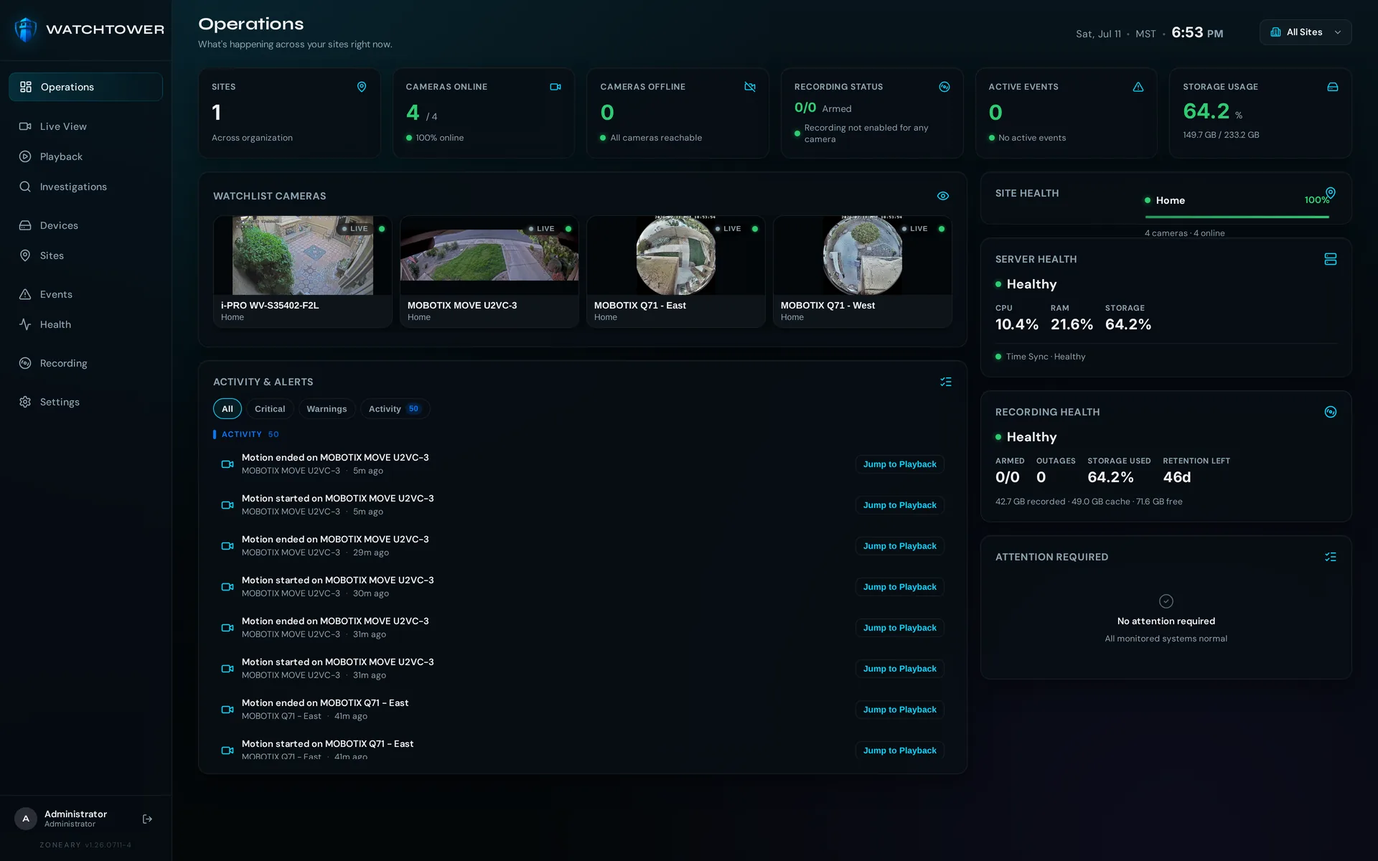
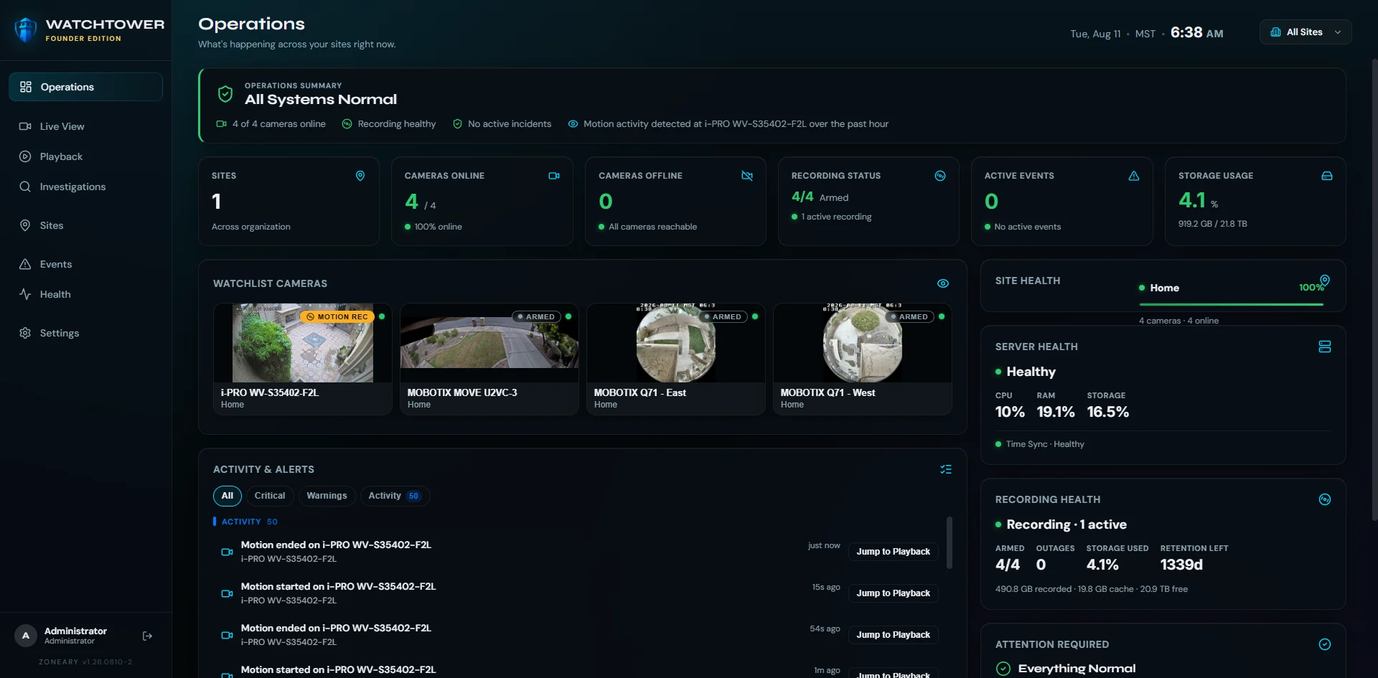
Refresh Watchtower screenshots and add the Desktop Client section
Second-generation captures (Aug 11) replace the first-gen set, plus a new
Watchtower Desktop section. Retires a pile of dead weight along the way.

Screenshots
- Replaced all six first-gen captures. New set is 1920x945 rather than
  1920x1200, so 15 baked-in width/height attributes were corrected; left as
  they were, every one would have caused a layout jump on load.
- Investigations finally has a screenshot: the real workspace, showing filtered
  clip search feeding an empty case with an export action.
- Browser-native fisheye dewarping now has evidence: the same MOBOTIX Q71 raw
  and dewarped, as a before/after pair. Both use one identical crop box derived
  by diffing the captures (their dimmed backdrop is identical, so only the
  popout differs) - identical framing is what makes the comparison fair.
- Health now carries two shots that answer two different questions: is the
  security system healthy (per-site/per-camera), and is the machine it runs on
  healthy (CPU, drives, services).
- Gallery 6 -> 9 tiles.

Desktop client
- New #desktop section between Cameras and Local-first architecture: three
  platform cards (Windows AVAILABLE, macOS AVAILABLE, Linux IN DEVELOPMENT)
  with status carried by pill treatment, not just words - dashed amber reuses
  the same grammar as the PLANNED tags elsewhere on the page.
- Sign-in and Live View captures keep their native window chrome, which is what
  actually evidences "native application".
[…]

diff --git a/site/watchtower/index.html b/site/watchtower/index.html
@@ -95,7 +95,7 @@
             <span class="aw-title"><img src="../assets/watchtower/watchtower_logo.png" alt="" /> watchtower · live view</span>
             <span class="aw-live"><i></i>LIVE</span>
           </div>
-          <div class="aw-media"><img src="../assets/watchtower/live-view.webp" alt="Watchtower Live View showing a wall of live camera feeds" width="1920" height="1200" /></div>
+          <div class="aw-media"><img src="../assets/watchtower/live-view.webp" alt="Watchtower Live View — a four-pane wall including two fisheye cameras" width="1920" height="945" /></div>
         </figure>
       </div>
     </div>
@@ -113,6 +113,7 @@
     <a href="#operations">Operations</a>
     <a href="#health">Health</a>
     <a href="#cameras">Cameras</a>
+    <a href="#desktop">Desktop</a>
     <a href="#licensing">Licensing</a>
     <a href="#faq">FAQ</a>
   </div>
@@ -159,7 +160,7 @@
         <div class="beam-accent"></div>
         <figure class="app-window">
           <div class="aw-bar"><span class="aw-dots"><i></i><i></i><i></i></span><span class="aw-title">watchtower · live view</span><span class="aw-live"><i></i>LIVE</span></div>
-          <div class="aw-media"><img src="../assets/watchtower/live-view.webp" alt="Watchtower Live View — a wall of live camera feeds" width="1920" height="1200" loading="lazy" /></div>
+          <div class="aw-media"><img src="../assets/watchtower/live-view.webp" alt="Watchtower Live View — a four-pane wall including two fisheye cameras" width="1920" height="945" loading="lazy" /></div>
         </figure>
       </div>
     </div>
@@ -180,6 +181,19 @@
         <p class="wt-plan"><span class="lab">Planned</span>Published browser, GPU and camera-model support matrix</p>
       </div>
     </div>
+
+    <!-- the same fisheye camera, raw then dewarped, both in the browser -->
+    <div class="wt-duo reveal">
+      <figure class="wt-duo-item">
+        <span class="wt-duo-tag">Raw fisheye</span>
+        <img src="../assets/watchtower/fisheye-raw.webp" alt="A MOBOTIX Q71 fisheye camera popped out in Watchtower, showing the raw circular fisheye image" width="1281" height="782" loading="lazy" />
+      </figure>
+      <figure class="wt-duo-item">
+        <span class="wt-duo-tag on">Dewarped in the browser</span>
+        <img src="../assets/watchtower/fisheye-dewarped.webp" alt="The same fisheye camera dewarped to a rectilinear view inside Watchtower, with no desktop plugin" width="1281" height="782" loading="lazy" />
+      </figure>
+    </div>
+    <p class="wt-cap">The same camera, before and after dewarping — both running in the browser.</p>
   </div>
 </section>
 
@@ -201,7 +215,7 @@
         <div class="beam-accent"></div>
         <figure class="app-window">
           <div class="aw-bar"><span class="aw-dots"><i></i><i></i><i></i></span><span class="aw-title">watchtower · recording</span></div>
-          <div class="aw-media"><img src="../assets/watchtower/recording.webp" alt="Watchtower Recording view with storage composition and retention protection" width="1920" height="1200" loading="lazy" /></div>
+          <div class="aw-media"><img src="../assets/watchtower/recording.webp" alt="Watchtower Recording view with storage composition and retention protection" width="1920" height="945" loading="lazy" /></div>
         </figure>
       </div>
     </div>
@@ -233,7 +247,7 @@
         <div class="beam-accent"></div>
         <figure class="app-window">
           <div class="aw-bar"><span class="aw-dots"><i></i><i></i><i></i></span><span class="aw-title">watchtower · playback</span></div>
-          <div class="aw-media"><img src="../assets/watchtower/playback.webp" alt="Watchtower Playback with recording timeline and investigation tools" width="1920" height="1200" loading="lazy" /></div>
+          <div class="aw-media"><img src="../assets/watchtower/playback.webp" alt="Watchtower Playback with recording timeline and investigation tools" width="1920" height="945" loading="lazy" /></div>
         </figure>
       </div>
     </div>
@@ -268,6 +282,14 @@
         <div class="wt-tags"><span>Export vault</span><span>Clip tools</span></div>
       </div>
     </div>
+    <div class="wt-subshot reveal">
+      <figure class="app-window">
+        <div class="aw-bar"><span class="aw-dots"><i></i><i></i><i></i></span><span class="aw-title">watchtower · investigations</span></div>
+        <div class="aw-media"><img src="../assets/watchtower/investigations.webp" alt="Watchtower Investigations — filtered clip search results on the left, an empty case ready to gather them on the right, and an export action" width="1920" height="945" loading="lazy" /></div>
+      </figure>
+      <p class="wt-cap">Search the recordings, gather what matters into a case, and export it as one record.</p>
+    </div>
+
     <p class="wt-punch" style="font-size:clamp(18px,2vw,24px)">Bookmark, tag and export — the difference between <b>having footage</b> and <b>having an answer</b>.</p>
   </div>
 </section>
@@ -290,7 +312,7 @@
         <div class="beam-accent"></div>
         <figure class="app-window">
           <div class="aw-bar"><span class="aw-dots"><i></i><i></i><i></i></span><span class="aw-title"><img src="../assets/watchtower/watchtower_logo.png" alt="" /> watchtower · operations</span><span class="aw-live"><i></i>LIVE</span></div>
-          <div class="aw-media"><img src="../assets/watchtower/operations.webp" alt="Watchtower Operations dashboard showing sites, cameras online, recording status and a live activity feed" width="1920" height="1200" loading="lazy" /></div>
+          <div class="aw-media"><img src="../assets/watchtower/operations.webp" alt="Watchtower Operations dashboard showing sites, cameras online, recording status and a live activity feed" width="1920" height="945" loading="lazy" /></div>
         </figure>
       </div>
     </div>
@@ -299,7 +321,7 @@
     <div class="wt-subshot reveal">
       <figure class="app-window">
         <div class="aw-bar"><span class="aw-dots"><i></i><i></i><i></i></span><span class="aw-title">watchtower · sites</span><span class="aw-live"><i></i>LIVE</span></div>
-        <div class="aw-media"><img src="../assets/watchtower/sites.webp" alt="Watchtower Sites — a geographic operations map with every location's status" width="1920" height="1200" loading="lazy" /></div>
+        <div class="aw-media"><img src="../assets/watchtower/sites.webp" alt="Watchtower Sites — a geographic operations map with every location's status" width="1920" height="945" loading="lazy" /></div>
       </figure>
       <p class="wt-cap">Every site, one map — monitor every location at a glance, then drop straight into the cameras behind it.</p>
     </div>
@@ -359,9 +381,17 @@
         <div class="beam-accent"></div>
         <figure class="app-window">
           <div class="aw-bar"><span class="aw-dots"><i></i><i></i><i></i></span><span class="aw-title">watchtower · health</span><span class="aw-live"><i></i>LIVE</span></div>
-          <div class="aw-media"><img src="../assets/watchtower/health.webp" alt="Watchtower Health view — server, storage and recording health with active warnings" width="1920" height="1200" loading="lazy" /></div>
+          <div class="aw-media"><img src="../assets/watchtower/health.webp" alt="Watchtower Health — per-site and per-camera health scores with recording status and failures" width="1920" height="945" loading="lazy" /></div>
         </figure>
       </div>
+    </div>
+
+    <div class="wt-subshot reveal">
+      <figure class="app-window">
+        <div class="aw-bar"><span class="aw-dots"><i></i><i></i><i></i></span><span class="aw-title">watchtower · appliance health</span></div>
+        <div class="aw-media"><img src="../assets/watchtower/appliance-health.webp" alt="Watchtower Appliance Health — CPU, memory, system drive, recording storage, uptime, time synchronisation and per-service status for the machine Watchtower runs on" width="1920" height="945" loading="lazy" /></div>
+      </figure>
+      <p class="wt-cap">Two different questions, answered separately: is the security system healthy, and is the machine it runs on healthy.</p>
     </div>
   </div>
 </section>
@@ -378,9 +408,8 @@
       <div class="wt-feat reveal">
         <div class="wt-ico"><svg viewBox="0 0 24 24" stroke-width="1.6"><rect x="3" y="6" width="18" height="12" rx="2"/><circle cx="12" cy="12" r="3.2"/></svg></div>
         <h3>ONVIF</h3>
-        <p>ONVIF-based setup and profile discovery: point Watchtower at a camera and its profiles and stream configuration come from the standard, rather than from a bespoke integration per brand.</p>
-        <div class="wt-tags"><span>Profile discovery</span><span>Standards-based setup</span></div>
-        <p class="wt-plan"><span class="lab">Planned</span>Automatic local-network ONVIF device scanning</p>
+        <p>ONVIF-based discovery and setup: Watchtower finds ONVIF devices on the local network and takes their profiles and stream configuration from the standard, rather than from a bespoke integration per brand.</p>
+        <div class="wt-tags"><span>Local-network discovery</span><span>Profile discovery</span><span>Standards-based setup</span></div>
       </div>
       <div class="wt-feat reveal rd1">
         <div class="wt-ico"><svg viewBox="0 0 24 24" stroke-width="1.6"><path d="M4 6h11v12H4z"/><path d="M15 10l5-3v10l-5-3z"/></svg></div>
@@ -408,6 +437,52 @@
       </div>
       <p class="wt-tested-note">Active interoperability testing runs across several manufacturers. This is the hardware on our bench today — not a formal or universal compatibility guarantee. Checking a specific model? <a href="mailto:info@zoneary.com?subject=Watchtower%20camera%20compatibility">Ask us</a>.</p>
     </div>
+  </div>
+</section>
+
+<!-- ============ DESKTOP CLIENT ============ -->
+<section class="pad" id="desktop">
+  <div class="wrap">
+    <div class="wt-head">
+      <span class="eyebrow"><i></i>Watchtower Desktop</span>
+      <h2>Your VMS. <span class="wt-warm">On your desktop.</span></h2>
+      <p>Watchtower isn't limited to a browser. The Watchtower desktop client brings the monitoring experience into a dedicated native application while connecting directly to the Watchtower system.</p>
+    </div>
+
+    <div class="wt-platforms">
+      <div class="wt-plat reveal">
+        <span class="wt-plat-mark"><svg viewBox="0 0 24 24" aria-hidden="true"><path d="M3 4.6l8-1.1v8.1H3zM12 3.4l9-1.3v9.5h-9zM3 12.5h8v8.1l-8-1.1zM12 12.5h9v9.6l-9-1.3z"/></svg></span>
+        <h3>Windows</h3>
+        <span class="wt-plat-status ok"><i></i>Available</span>
+        <p>Native Watchtower desktop client for Windows.</p>
+      </div>
+      <div class="wt-plat reveal rd1">
+        <span class="wt-plat-mark"><svg viewBox="0 0 24 24" aria-hidden="true"><path d="M16.4 12.7c0-2.3 1.9-3.4 2-3.5-1.1-1.6-2.8-1.8-3.4-1.8-1.4-.1-2.8.9-3.5.9-.7 0-1.8-.9-3-.9-1.5 0-2.9 1-3.7 2.4-1.6 2.7-.4 6.8 1.1 9 .8 1.1 1.6 2.3 2.8 2.2 1.1 0 1.6-.7 2.9-.7s1.7.7 2.9.7c1.2 0 2-1.1 2.7-2.2.9-1.2 1.2-2.5 1.3-2.5-.1 0-2.4-1-2.4-3.6z"/><path d="M14.2 5.6c.6-.8 1-1.8.9-2.9-.9 0-2 .6-2.7 1.4-.6.7-1.1 1.8-.9 2.8 1 .1 2-.5 2.7-1.3z"/></svg></span>
+        <h3>macOS</h3>
+        <span class="wt-plat-status ok"><i></i>Available</span>
+        <p>Native Watchtower desktop client for macOS.</p>
+      </div>
+      <div class="wt-plat reveal rd2">
+        <span class="wt-plat-mark"><svg viewBox="0 0 24 24" aria-hidden="true"><path d="M8 19.1c-1.2.7-2.8 1.5-3.3 2-.4.4-.2.9.4 1 1.5.2 3.4-.5 4.5-1.5z" fill="#ffb454"/><path d="M16 19.1c1.2.7 2.8 1.5 3.3 2 .4.4.2.9-.4 1-1.5.2-3.4-.5-4.5-1.5z" fill="#ffb454"/><path d="M12 2.2c-2.5 0-4.2 1.9-4.2 4.5 0 1-.2 1.8-.6 2.6-.7 1.5-2 3-2.4 4.5-.4 1.5-.1 3 .8 4.1 1 1.3 2.7 2 4.5 2.2.6.1 1.3.1 1.9.1s1.3 0 1.9-.1c1.8-.2 3.5-.9 4.5-2.2.9-1.1 1.2-2.6.8-4.1-.4-1.5-1.7-3-2.4-4.5-.4-.8-.6-1.6-.6-2.6 0-2.6-1.7-4.5-4.2-4.5z"/><circle cx="10.5" cy="6.5" r=".8" fill="#14161E"/><circle cx="13.5" cy="6.5" r=".8" fill="#14161E"/><path d="M12 7.7c.8 0 1.6.5 1.6.95 0 .4-.85.9-1.6.9s-1.6-.5-1.6-.9c0-.45.8-.95 1.6-.95z" fill="#ffb454"/></svg></span>
+        <h3>Linux</h3>
+        <span class="wt-plat-status dev"><i></i>In development</span>
+        <p>Native Linux desktop client is currently in development.</p>
+      </div>
+    </div>
+
+    <div class="wt-duo reveal">
+      <figure class="wt-duo-item">
+        <span class="wt-duo-tag">Sign in</span>
+        <img src="../assets/watchtower/desktop-signin.webp" alt="The Watchtower desktop client sign-in window running as a native application" width="1182" height="792" loading="lazy" />
+      </figure>
+      <figure class="wt-duo-item">
+        <span class="wt-duo-tag on">Live view</span>
+        <img src="../assets/watchtower/desktop-live.webp" alt="Watchtower Live View running inside the native desktop client, showing a four-pane camera wall" width="1429" height="912" loading="lazy" />
+      </figure>
+    </div>
+    <p class="wt-cap">The Watchtower desktop client, connected to a Watchtower system.</p>
+
+    <p class="wt-punch" style="font-size:clamp(18px,2vw,24px)">The desktop client is <b>another way to operate Watchtower</b>, not a requirement. Watchtower stays fully usable in the browser — including its browser-native fisheye dewarping — with no proprietary viewing plugin.</p>
   </div>
 </section>
 
@@ -488,12 +563,15 @@
       <p>Real screens from the current Watchtower build — not conceptual artwork.</p>
     </div>
     <div class="wt-gallery">
-      <figure class="wt-gal reveal"><img src="../assets/watchtower/operations.webp" alt="Watchtower Operations dashboard" width="1920" height="1200" loading="lazy" /><figcaption>Operations</figcaption></figure>
-      <figure class="wt-gal reveal rd1"><img src="../assets/watchtower/live-view.webp" alt="Watchtower Live View camera wall" width="1920" height="1200" loading="lazy" /><figcaption>Live view</figcaption></figure>
-      <figure class="wt-gal reveal rd2"><img src="../assets/watchtower/playback.webp" alt="Watchtower Playback timeline" width="1920" height="1200" loading="lazy" /><figcaption>Playback</figcaption></figure>
-      <figure class="wt-gal reveal"><img src="../assets/watchtower/recording.webp" alt="Watchtower Recording and storage composition" width="1920" height="1200" loading="lazy" /><figcaption>Recording</figcaption></figure>
-      <figure class="wt-gal reveal rd1"><img src="../assets/watchtower/health.webp" alt="Watchtower Health view" width="1920" height="1200" loading="lazy" /><figcaption>Health</figcaption></figure>
-      <figure class="wt-gal reveal rd2"><img src="../assets/watchtower/sites.webp" alt="Watchtower Sites operations map" width="1920" height="1200" loading="lazy" /><figcaption>Sites</figcaption></figure>
+      <figure class="wt-gal reveal"><img src="../assets/watchtower/operations.webp" alt="Watchtower Operations dashboard" width="1920" height="945" loading="lazy" /><figcaption>Operations</figcaption></figure>
+      <figure class="wt-gal reveal rd1"><img src="../assets/watchtower/live-view.webp" alt="Watchtower Live View camera wall" width="1920" height="945" loading="lazy" /><figcaption>Live view</figcaption></figure>
+      <figure class="wt-gal reveal rd2"><img src="../assets/watchtower/live-single.webp" alt="Watchtower Live View with a single camera at full frame" width="1920" height="945" loading="lazy" /><figcaption>Single camera</figcaption></figure>
+      <figure class="wt-gal reveal"><img src="../assets/watchtower/playback.webp" alt="Watchtower Playback timeline" width="1920" height="945" loading="lazy" /><figcaption>Playback</figcaption></figure>
+      <figure class="wt-gal reveal rd1"><img src="../assets/watchtower/investigations.webp" alt="Watchtower Investigations workspace" width="1920" height="945" loading="lazy" /><figcaption>Investigations</figcaption></figure>
+      <figure class="wt-gal reveal rd2"><img src="../assets/watchtower/recording.webp" alt="Watchtower Recording and storage composition" width="1920" height="945" loading="lazy" /><figcaption>Recording</figcaption></figure>
+      <figure class="wt-gal reveal"><img src="../assets/watchtower/health.webp" alt="Watchtower Health view" width="1920" height="945" loading="lazy" /><figcaption>Health</figcaption></figure>
+      <figure class="wt-gal reveal rd1"><img src="../assets/watchtower/appliance-health.webp" alt="Watchtower Appliance Health" width="1920" height="945" loading="lazy" /><figcaption>Appliance health</figcaption></figure>
+      <figure class="wt-gal reveal rd2"><img src="../assets/watchtower/sites.webp" alt="Watchtower Sites operations map" width="1920" height="945" loading="lazy" /><figcaption>Sites</figcaption></figure>
     </div>
   </div>
 </section>
@@ -507,7 +585,7 @@
       <p>A look at what's planned. These are directions we're building toward — not features shipping today.</p>
     </div>
     <div class="wt-roadmap">
-      <div class="wt-road reveal"><span class="tag">Planned</span><h3>Automatic camera discovery</h3><p>Local-network ONVIF scanning to find and add cameras for you, instead of adding each device by address.</p></div>
+      <div class="wt-road reveal"><span class="tag">Planned</span><h3>Detection zone refinements</h3><p>Richer per-camera motion tuning on top of the sensitivity and exclusion zones already in the build.</p></div>
       <div class="wt-road reveal rd1"><span class="tag">Planned</span><h3>Object classification</h3><p>Distinguishing people and vehicles from everything else, and advanced analytic rules on top — used to help you see, never to decide for you.</p></div>
       <div class="wt-road reveal rd2"><span class="tag">Planned</span><h3>Deeper investigations</h3><p>Richer case tooling: shared cases, richer export packaging, and a cleaner chain of custody.</p></div>
       <div class="wt-road reveal"><span class="tag">Planned</span><h3>Expanded multi-site</h3><p>Larger fleets and richer cross-site rollups through one console.</p></div>
@@ -544,7 +622,7 @@
       </details>
       <details class="wt-q">
         <summary>Which cameras work with Watchtower?</summary>
-        <div class="a"><p>Watchtower uses ONVIF-based setup and profile discovery with standards-based RTSP video ingestion, rather than a per-brand integration list. Automatic local-network camera discovery is still in development.</p><p>Hardware used during development and interoperability testing currently includes i-PRO, MOBOTIX Q71 and MOBOTIX MOVE / MOVE U2VC-series equipment. That is a test bench, not a supported-device list. Compatibility details will be published before release; until then, ask us about a specific model and we'll tell you what we know.</p></div>
+        <div class="a"><p>Watchtower uses ONVIF-based discovery and setup with standards-based RTSP video ingestion, rather than a per-brand integration list. ONVIF devices on the local network are discovered rather than added one address at a time.</p><p>Hardware used during development and interoperability testing currently includes i-PRO, MOBOTIX Q71 and MOBOTIX MOVE / MOVE U2VC-series equipment. That is a test bench, not a supported-device list. Compatibility details will be published before release; until then, ask us about a specific model and we'll tell you what we know.</p></div>
       </details>
       <details class="wt-q">
         <summary>How does Watchtower relate to PulseGrid and Sentinel?</summary>

diff --git a/site/sentinel/index.html b/site/sentinel/index.html
@@ -19,12 +19,12 @@
 <meta property="og:url" content="https://zoneary.com/sentinel/" />
 <meta property="og:title" content="Sentinel | Home Security Control by Zoneary" />
 <meta property="og:description" content="Local-first home security control, designed to reuse compatible wiring and sensors. An active development project. Part of the Zoneary ecosystem." />
-<meta property="og:image" content="https://zoneary.com/sentinel/img/dashboard_ready.png" />
+<meta property="og:image" content="https://zoneary.com/assets/sentinel/sentinel_dashboard.png" />
 <!-- Twitter -->
 <meta name="twitter:card" content="summary_large_image" />
 <meta name="twitter:title" content="Sentinel | Home Security Control by Zoneary" />
 <meta name="twitter:description" content="Local-first home security control, designed to reuse compatible wiring and sensors. In development. Part of the Zoneary ecosystem." />
-<meta name="twitter:image" content="https://zoneary.com/sentinel/img/dashboard_ready.png" />
+<meta name="twitter:image" content="https://zoneary.com/assets/sentinel/sentinel_dashboard.png" />
 <link rel="stylesheet" href="../css/fonts.css" />
 <link rel="stylesheet" href="../css/styles.css" />
 <link rel="stylesheet" href="sentinel.css" />
@@ -60,7 +60,7 @@
   <div class="wrap">
     <div class="sn-hero-grid">
       <div class="sn-hero-content">
-        <div class="sn-hero-brand"><img src="img/sentinel_lockup.png" alt="Sentinel — old wiring, new intelligence" /></div>
+        <div class="sn-hero-brand"><img src="../assets/brand/sentinel_lockup.png" alt="Sentinel — old wiring, new intelligence" /></div>
         <h1><span class="sn-steel">Old wiring.</span><br><span class="sn-warm">New intelligence.</span></h1>
         <p class="sn-hero-body">Sentinel is local-first home security control that runs in your own home. It is designed to reuse compatible sensors, wiring and panels and bring them into one dashboard you actually enjoy using — developed around a Konnected-based home installation and open home-automation principles.</p>
         <div class="sn-hero-actions">
@@ -78,10 +78,10 @@
           <figure class="app-window">
             <div class="aw-bar">
               <span class="aw-dots"><i></i><i></i><i></i></span>
-              <span class="aw-title"><img src="img/sentinel_shield.png" alt="" /> sentinel · control center</span>
+              <span class="aw-title"><img src="../assets/brand/sentinel_shield.png" alt="" /> sentinel · control center</span>
               <span class="aw-live"><i></i>LIVE</span>
             </div>
-            <div class="aw-media"><img src="img/dashboard_ready.png" alt="Sentinel control center — all zones secure, system ready" width="2650" height="1716" /></div>
+            <div class="aw-media"><img src="../assets/sentinel/sentinel_dashboard.png" alt="Sentinel control center — all zones secure, system ready" width="2650" height="1716" /></div>
           </figure>
           <div class="sn-screen-badge"><span class="sn-badge-dot"></span>System Ready</div>
         </div>
@@ -122,7 +122,7 @@
       <!-- AFTER -->
       <div class="sn-side sn-side-after">
         <span class="sn-tag sn-tag-after">After</span>
-        <div class="sn-shot"><img src="img/dashboard_ready.png" alt="The Sentinel control center, after" width="2650" height="1716" /></div>
+        <div class="sn-shot"><img src="../assets/sentinel/sentinel_dashboard.png" alt="The Sentinel control center, after" width="2650" height="1716" /></div>
         <h3>Sentinel Control Center</h3>
         <p>A full-colour dashboard on a wall tablet — named zones and sensor state at a glance. Designed to be worth leaving on permanent display.</p>
         <ul class="sn-checks good">

diff --git a/site/watchtower/watchtower.css b/site/watchtower/watchtower.css
@@ -132,6 +132,38 @@ section[id]{scroll-margin-top:114px}
 .wt-tested-note{margin-top:18px;font-size:13px;line-height:1.65;color:var(--muted)}
 .wt-tested-note a{color:var(--wt);border-bottom:1px solid rgba(0,212,255,.3)}
 
+/* two screenshots side by side with a corner label (fisheye before/after,
+   desktop client sign-in + live view) */
+.wt-duo{display:grid;grid-template-columns:1fr 1fr;gap:16px;max-width:1160px;margin:clamp(30px,4vw,44px) auto 0}
+.wt-duo-item{position:relative;border:1px solid var(--line-2);border-radius:14px;overflow:hidden;background:var(--panel);
+  transition:border-color .25s}
+.wt-duo-item:hover{border-color:var(--wt-line)}
+.wt-duo-item img{width:100%;height:auto;display:block}
+/* sits at the bottom so it never lands on the popout's own header bar */
+.wt-duo-tag{position:absolute;left:14px;bottom:14px;z-index:2;font-family:var(--mono);font-size:10px;letter-spacing:.14em;
+  text-transform:uppercase;color:var(--steel);background:rgba(8,10,17,.72);border:1px solid var(--line);
+  border-radius:6px;padding:5px 10px;backdrop-filter:blur(6px)}
+.wt-duo-tag.on{color:var(--wt);border-color:var(--wt-line);background:rgba(0,212,255,.12)}
+
+
+/* ============ DESKTOP CLIENT PLATFORMS ============ */
+.wt-platforms{display:grid;grid-template-columns:repeat(3,1fr);gap:16px;max-width:1000px;margin:0 auto}
+.wt-plat{background:var(--panel);border:1px solid var(--line-2);border-radius:18px;text-align:center;
+  padding:clamp(28px,2.6vw,36px) clamp(20px,2vw,28px);transition:border-color .25s,transform .25s,background .25s}
+.wt-plat:hover{border-color:var(--wt-line);transform:translateY(-4px);background:var(--panel-hi)}
+.wt-plat-mark{display:grid;place-items:center;width:60px;height:60px;margin:0 auto 18px;border-radius:16px;
+  border:1px solid var(--line);background:linear-gradient(160deg,rgba(255,255,255,.07),transparent)}
+.wt-plat-mark svg{width:29px;height:29px;fill:var(--ink)}
+.wt-plat h3{font-family:var(--disp);font-weight:600;font-size:19px;letter-spacing:-.01em;margin-bottom:12px}
+.wt-plat-status{display:inline-flex;align-items:center;gap:8px;font-family:var(--mono);font-size:10px;
+  letter-spacing:.16em;text-transform:uppercase;border-radius:100px;padding:5px 12px;margin-bottom:14px}
+.wt-plat-status i{width:6px;height:6px;border-radius:50%;flex:none}
+.wt-plat-status.ok{color:var(--green);border:1px solid rgba(62,224,138,.32);background:rgba(62,224,138,.08)}
+.wt-plat-status.ok i{background:var(--green);box-shadow:0 0 8px var(--green)}
+.wt-plat-status.dev{color:var(--amber);border:1px dashed rgba(255,180,84,.45);background:rgba(255,180,84,.07)}
+.wt-plat-status.dev i{background:var(--amber);box-shadow:0 0 8px var(--amber)}
+.wt-plat p{font-size:13.5px;color:var(--muted);line-height:1.6}
+
 /* ============ CHECK GRID (storage / health signals) ============ */
 .wt-checklist{display:grid;grid-template-columns:1fr 1fr;gap:10px}
 .wt-check{display:flex;align-items:center;gap:11px;background:var(--panel);border:1px solid var(--line-2);border-radius:11px;
@@ -231,6 +263,10 @@ section[id]{scroll-margin-top:114px}
   .wt-why{grid-template-columns:1fr;gap:34px}
   .wt-feats,.wt-feats.two{grid-template-columns:1fr 1fr}
   .wt-lic,.wt-roadmap,.wt-gallery,.wt-arch{grid-template-columns:1fr 1fr}
+}
+@media(max-width:760px){
+  .wt-duo{grid-template-columns:1fr}
+  .wt-platforms{grid-template-columns:1fr}
 }
 @media(max-width:640px){
   .wt-feats,.wt-feats.two,.wt-lic,.wt-roadmap,.wt-gallery,.wt-arch{grid-template-columns:1fr}

diff --git a/site/index.html b/site/index.html
@@ -148,7 +148,7 @@
           <span class="aw-title"><img src="assets/watchtower/watchtower_logo.png" alt="" /> watchtower · operations</span>
           <span class="aw-live"><i></i>LIVE</span>
         </div>
-        <div class="aw-media"><img src="assets/watchtower/operations.webp" alt="Watchtower Operations dashboard showing sites, cameras online, recording status, server and recording health, and a live activity feed" width="1920" height="1200" /></div>
+        <div class="aw-media"><img src="assets/watchtower/operations.webp" alt="Watchtower Operations dashboard showing sites, cameras online, recording status, server and recording health, and a live activity feed" width="1920" height="945" /></div>
       </figure>
       <div class="caption">Watchtower Operations — the real product, running on real hardware.</div>
     </div>
@@ -182,7 +182,7 @@
       <!-- Live View screenshot cell -->
       <div class="cell shot c-wide reveal rd1" style="min-height:340px">
         <span class="live-tag"><i></i>LIVE</span>
-        <div class="frame"><img src="assets/watchtower/live-view.webp" alt="Watchtower Live View showing a 2x2 wall of live camera feeds" loading="lazy" /></div>
+        <div class="frame"><img src="assets/watchtower/live-view.webp" alt="Watchtower Live View — a 2x2 wall of live camera feeds including two fisheye cameras" loading="lazy" /></div>
         <div class="cap">
           <h3>Live Monitoring at scale</h3>
           <p>Multi-camera walls designed for responsive monitoring, and built to grow with the installation. Latency is a security flaw — Watchtower is designed to treat it like one.</p>
@@ -226,7 +226,7 @@
     <div class="cine-scene" style="background-image:url('assets/watchtower/live-view.webp')"></div>
     <div class="cine-scene" style="background-image:url('assets/watchtower/sites.webp')"></div>
     <div class="cine-scene" style="background-image:url('assets/watchtower/playback.webp')"></div>
-    <div class="cine-scene" style="background-image:url('assets/watchtower/health.webp')"></div>
+    <div class="cine-scene" style="background-image:url('assets/watchtower/investigations.webp')"></div>
     <div class="cine-scene" style="background-image:url('assets/watchtower/recording.webp')"></div>
   </div>
   <div class="cine-veil"></div>
@@ -261,7 +261,7 @@
       <div class="ef-media">
         <figure class="app-window">
           <div class="aw-bar"><span class="aw-dots"><i></i><i></i><i></i></span><span class="aw-title"><img src="assets/watchtower/watchtower_logo.png" alt="" /> watchtower · operations</span><span class="aw-live"><i></i>LIVE</span></div>
-          <div class="aw-media"><img src="assets/watchtower/operations.webp" alt="Watchtower Operations dashboard" width="1920" height="1200" loading="lazy" /></div>
+          <div class="aw-media"><img src="assets/watchtower/operations.webp" alt="Watchtower Operations dashboard" width="1920" height="945" loading="lazy" /></div>
         </figure>
       </div>
     </div>

diff --git a/site/pulsegrid/index.html b/site/pulsegrid/index.html
@@ -18,12 +18,12 @@
 <meta property="og:url" content="https://zoneary.com/pulsegrid/" />
 <meta property="og:title" content="PulseGrid | Physical Security Infrastructure Monitoring by Zoneary" />
 <meta property="og:description" content="PulseGrid is being built to monitor the health of the infrastructure behind your video — cameras, servers, storage, networks, power and environment. In active development. Local-first, part of the Zoneary ecosystem." />
-<meta property="og:image" content="https://zoneary.com/pulsegrid/img/all-devices.png" />
+<meta property="og:image" content="https://zoneary.com/assets/pulsegrid/all-devices.png" />
 <!-- Twitter -->
 <meta name="twitter:card" content="summary_large_image" />
 <meta name="twitter:title" content="PulseGrid | Physical Security Infrastructure Monitoring by Zoneary" />
 <meta name="twitter:description" content="In development: monitoring the health of physical security infrastructure before small problems become outages. Local-first, part of the Zoneary ecosystem." />
-<meta name="twitter:image" content="https://zoneary.com/pulsegrid/img/all-devices.png" />
+<meta name="twitter:image" content="https://zoneary.com/assets/pulsegrid/all-devices.png" />
 <link rel="stylesheet" href="../css/fonts.css" />
 <link rel="stylesheet" href="../css/styles.css" />
 <link rel="stylesheet" href="pulsegrid.css" />
@@ -79,7 +79,7 @@
             <span class="aw-title"><img src="../assets/brand/pulsegrid_icon.png" alt="" /> pulsegrid · all devices</span>
             <span class="aw-live"><i></i>LIVE</span>
           </div>
-          <div class="aw-media"><img src="img/all-devices.png" alt="PulseGrid All Devices — cameras, servers, switches and alarm panels with live health status" width="1913" height="923" /></div>
+          <div class="aw-media"><img src="../assets/pulsegrid/all-devices.png" alt="PulseGrid All Devices — cameras, servers, switches and alarm panels with live health status" width="1913" height="923" /></div>
         </figure>
       </div>
     </div>
